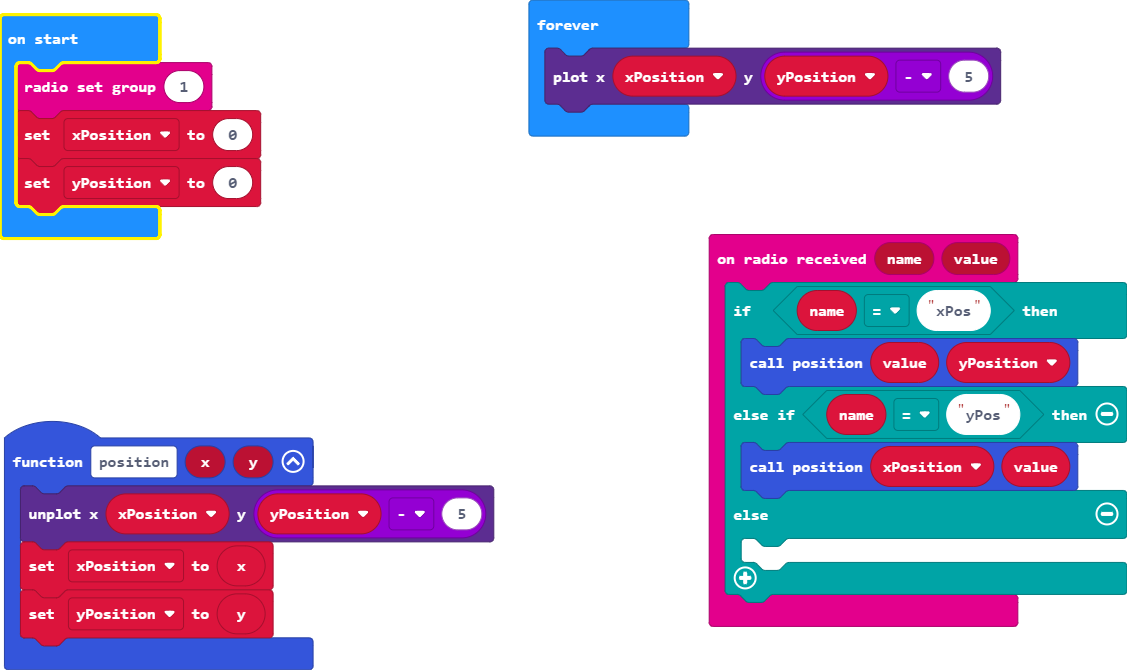
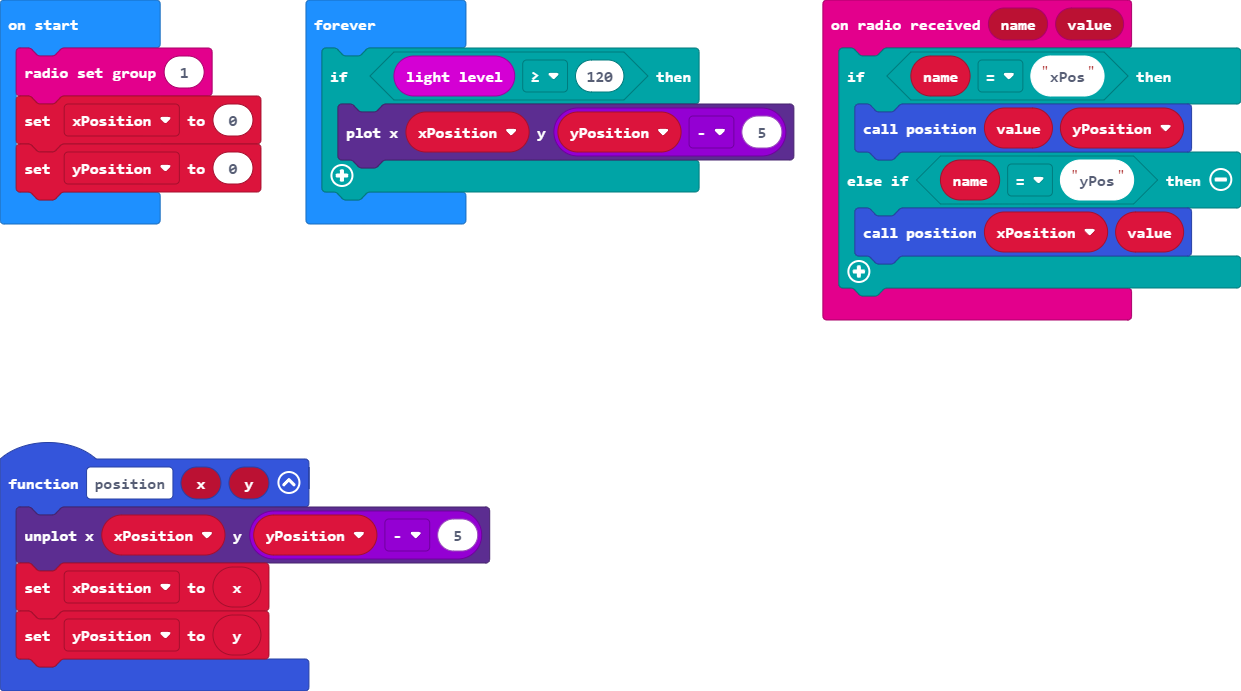
Update main.blocks, main.ts

diff --git a/main.ts b/main.ts
@@ -8,8 +8,6 @@ radio.onReceivedValue(function (name, value) {
         position(value, yPosition)
     } else if (name == "yPos") {
         position(xPosition, value)
-    } else {
-    	
     }
 })
 let yPosition = 0
@@ -18,5 +16,7 @@ radio.setGroup(1)
 xPosition = 0
 yPosition = 0
 basic.forever(function () {
-    led.plot(xPosition, yPosition - 5)
+    if (input.lightLevel() >= 120) {
+        led.plot(xPosition, yPosition - 5)
+    }
 })
